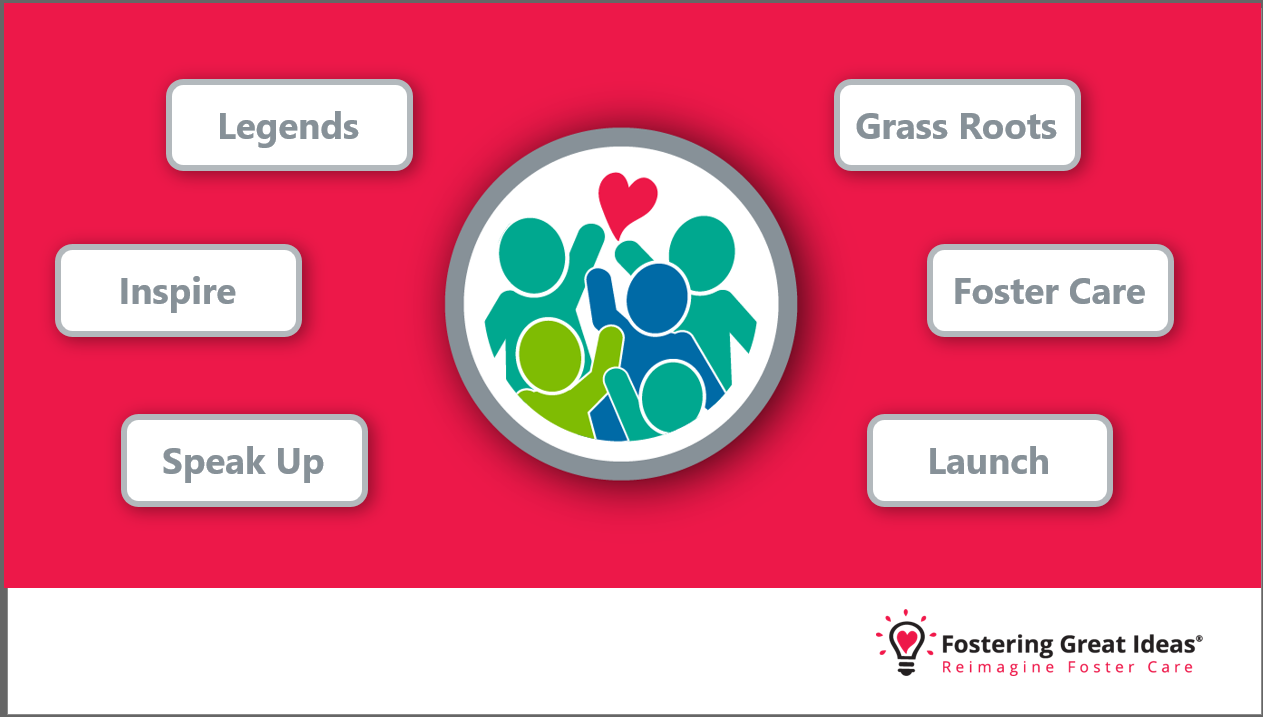
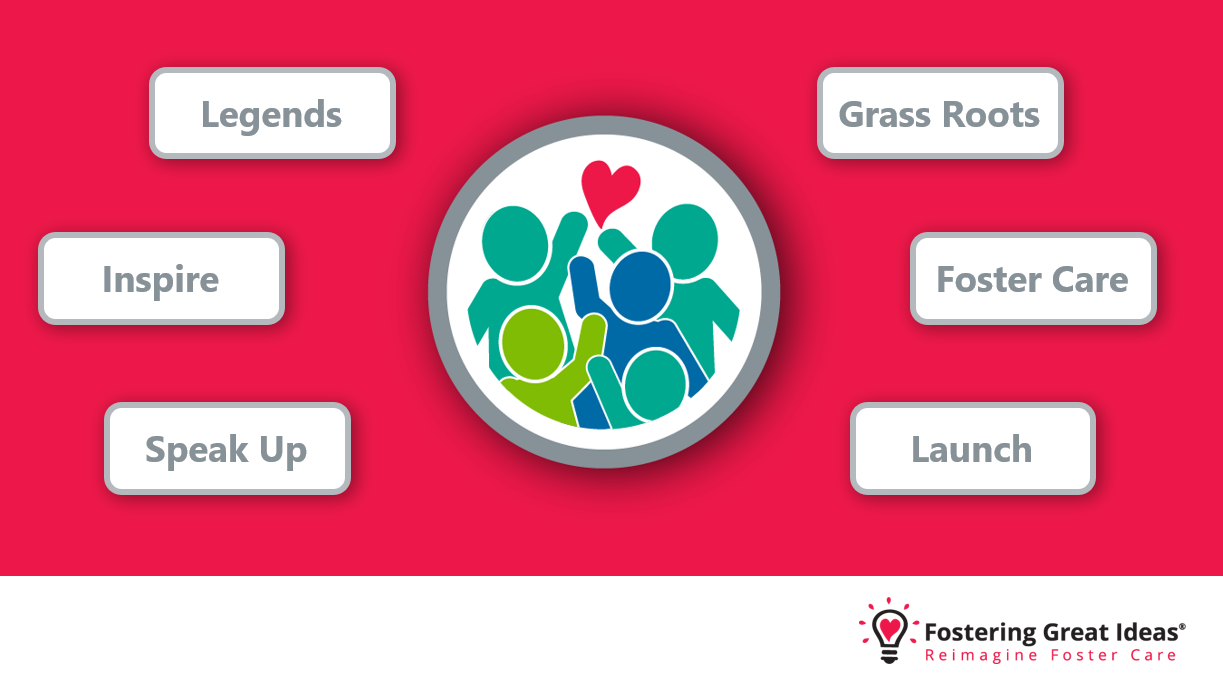
cropped images

diff --git a/public/home.html b/public/home.html
@@ -75,7 +75,7 @@
         <div class="carousel-inner">
           <div class="carousel-item active">
             <img
-              src="https:///raw.githubusercontent.com/leeretk/fgi_advocacy/master/assets/images/training%20slide%201.PNG"
+              src="https:///raw.githubusercontent.com/leeretk/fgi_advocacy/master/assets/images/training slide 3.PNG"
               class="d-block w-100 " alt="...">
           </div>
           <div class="carousel-item">
